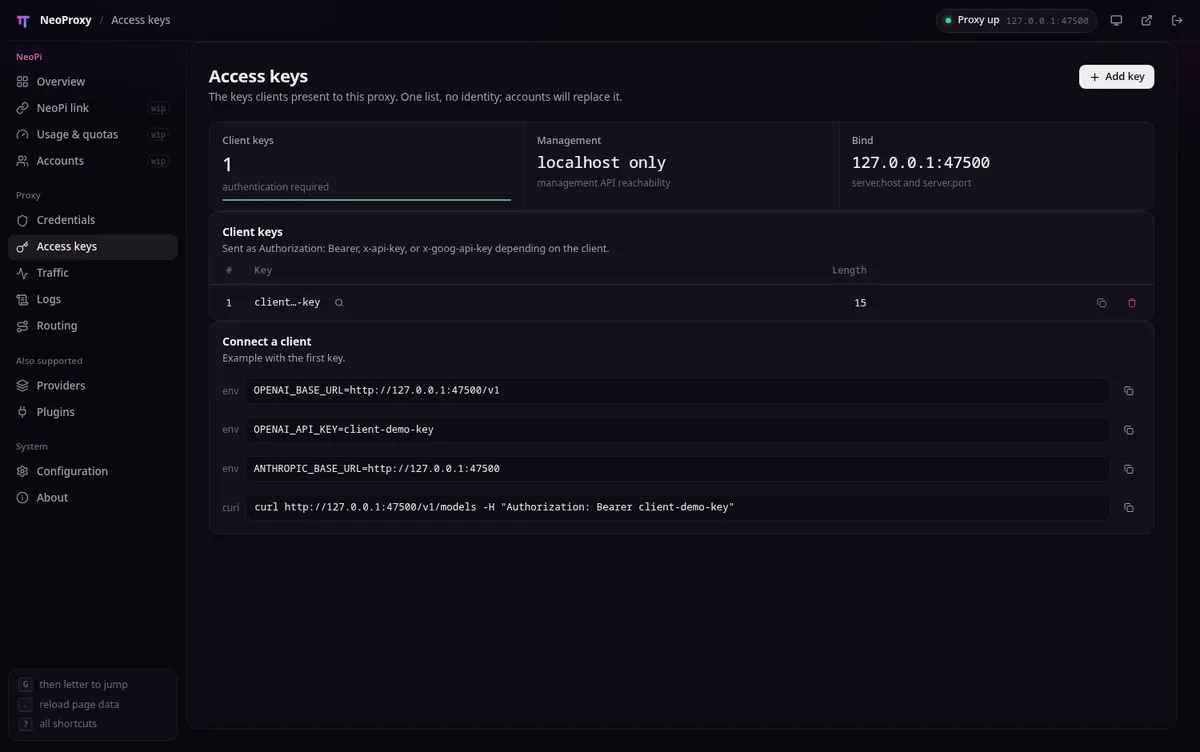
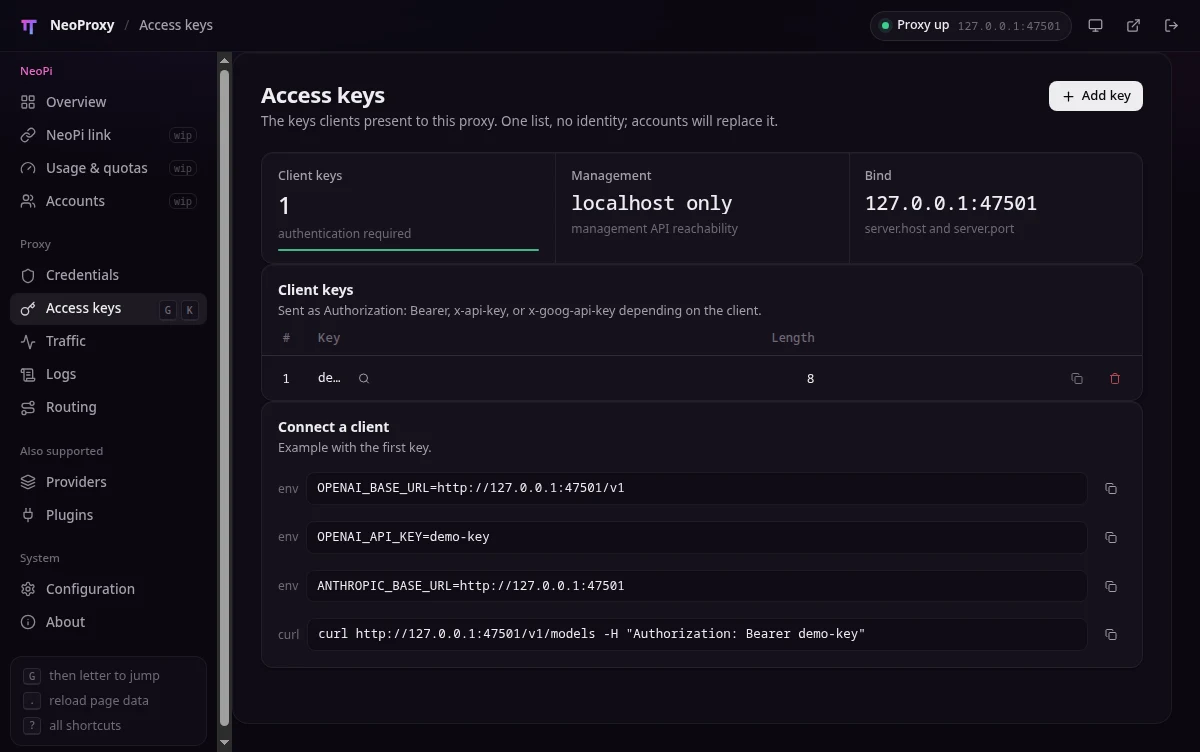
docs(design): scrub NeoProxy reference data
Replace all NeoPi reference captures with an anonymized synthetic export, empty private stats views, and a synthetic collaboration fixture. Refresh the configuration and access-key app captures with explicit placeholders, and remove the private host name from the Accounts page copy. Visually reviewed the updated images; no credentials or live auth material are shown.

Model: openai-codex/gpt-6-luna

diff --git a/internal/neoui/static/pages/accounts.js b/internal/neoui/static/pages/accounts.js
@@ -32,7 +32,7 @@ export const accounts = {
 				items: [
 					"Per-person client keys, issued and revoked here, with the usage they generate attributed to them.",
 					"Scopes: which providers and models an account may call, and whether it may touch the management API.",
-					"Shared identity with NeoDeck, so a team member on Utopia has the same account everywhere.",
+					"Shared identity with NeoDeck, so a team member on the office server has the same account everywhere.",
 					"An audit trail of who changed what in this proxy.",
 				],
 				links: [btn("NeoPi link", { cls: "sm outline", onClick: () => navigate("neopi") }), btn("Access keys", { cls: "sm outline", onClick: () => navigate("access") })],
